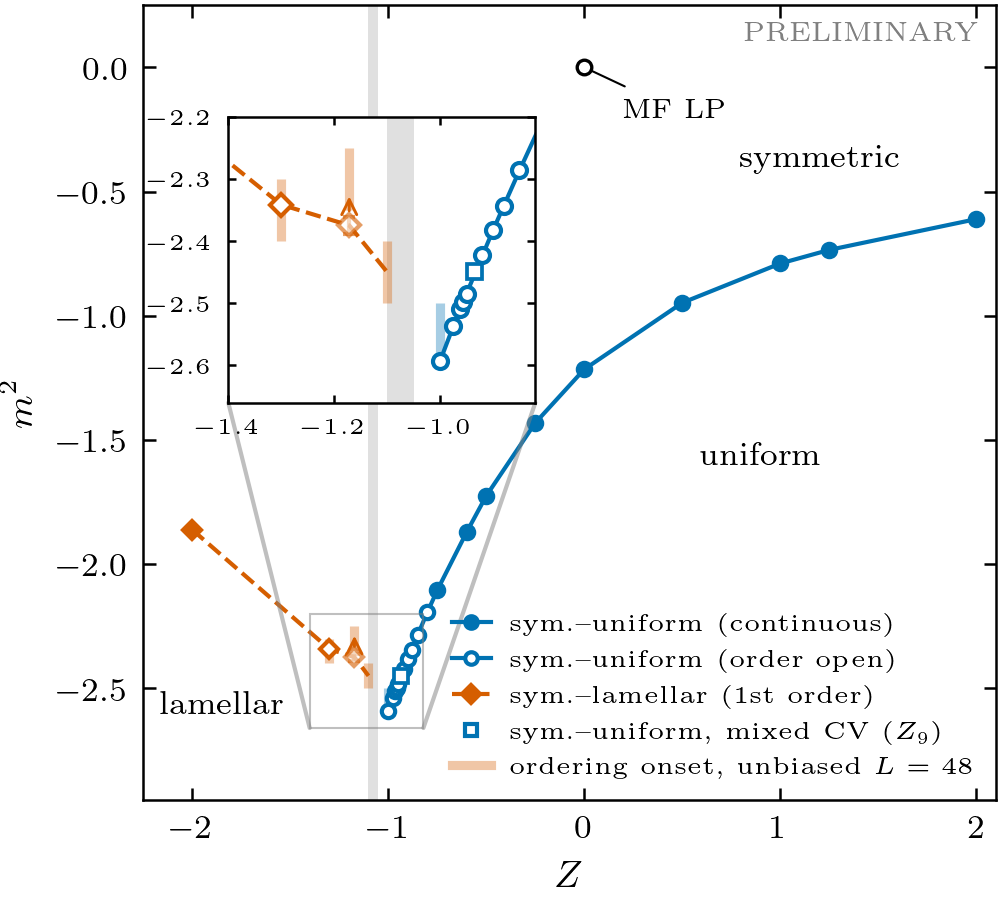
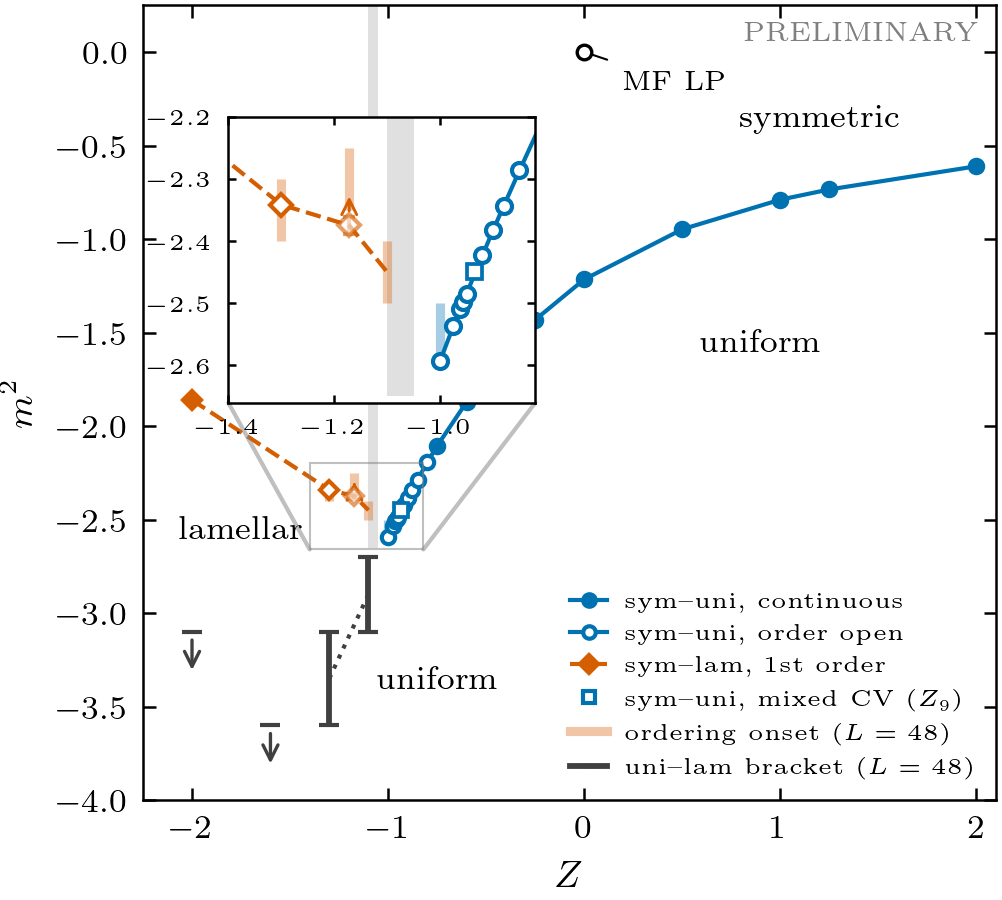
Preliminary phase diagram: uniform<->lamellar brackets from the local slab-coexistence runs (ulam), moat band restricted to the symmetric phase

diff --git a/scripts/fig_phase_diagram.py b/scripts/fig_phase_diagram.py
@@ -16,6 +16,11 @@ Symbols
   time scale; it is not an error bar on m_c.
 * Z8 L = 20: chi_s still rising at the upper edge of the reweighting range, so the point
   is a lower bound on m_c(L=20) (arrow).
+* uniform <-> lamellar: brackets from the local direct-coexistence runs (stages ulam, ulam2;
+  reports/ulam/summary.csv, scripts/analyze_ulam.py).  Half-uniform / half-lamellar L = 48
+  boxes; the bar spans the lowest m2 where lamellae invade (all replicas) to the highest m2
+  where the uniform phase invades.  Where no uniform win was found yet, a downward arrow from
+  the lowest lamellar-win mass.
 * Open circle at the origin: mean-field Lifshitz point (theory lines: fig_theory.py).  Grey band: Z range where the renormalized S(k) peak moves to
   k -> 0 at the transition (moat closes).
 
@@ -59,14 +64,45 @@ def lamellar_points() -> list[dict]:
     return out
 
 
+def ulam_brackets() -> list[tuple[float, float, float | None]]:
+    """(Z, lowest m2 with lamellar win, highest m2 with uniform win or None)."""
+    f = ROOT / "reports" / "ulam" / "summary.csv"
+    if not f.is_file():
+        return []
+    t = pd.read_csv(f)
+    t = t[t.complete.astype(bool)]
+    out = []
+    for Z, g in t.groupby("Z"):
+        lam = g[g.lamellar == g[["uniform", "lamellar", "slab", "symmetric"]].sum(axis=1)].m2
+        uni = g[g.uniform > 0].m2
+        if lam.empty:
+            continue
+        lo = lam.min()
+        hi = uni[uni < lo].max() if not uni.empty else None
+        out.append((round(Z, 4), lo, None if hi is None or np.isnan(hi) else hi))
+    return out
+
+
 # unbiased L=48 chains: (Z, last fully symmetric m2, first m2 with nucleated order, state)
 NUCLEATION = [(-1.3, -2.30, -2.40, "lamellae"), (Z8, -2.25, -2.35, "lamellae"),
               (-1.1, -2.40, -2.50, "lamellae"), (-1.0, -2.50, -2.60, "slabs")]
 
 
-def draw(ax, U, lam, H, inset=False):
+def draw(ax, U, lam, H, inset=False, UL=()):
     ms = 3.2 if not inset else 3.6
-    ax.axvspan(-1.10, -1.05, color="0.88", lw=0, zorder=0)
+    mid = []
+    for Z, lo, hi in UL:
+        if hi is None:
+            ax.annotate("", (Z, lo - 0.25), (Z, lo), arrowprops=dict(arrowstyle="->", lw=0.8, color=C_UM))
+            ax.plot([Z], [lo], "_", ms=5, mew=1.0, color=C_UM)
+        else:
+            ax.plot([Z, Z], [hi, lo], "-", lw=1.4, color=C_UM, solid_capstyle="butt", zorder=3)
+            ax.plot([Z, Z], [hi, lo], "_", ms=5, mew=1.0, color=C_UM, zorder=3)
+            mid.append((Z, 0.5 * (hi + lo)))
+    if mid:
+        z, m = zip(*sorted(mid))
+        ax.plot(z, m, ":", lw=1.0, color=C_UM, zorder=2)
+    ax.fill_betweenx([-2.65, 0.3], -1.10, -1.05, color="0.88", lw=0, zorder=0)   # symmetric phase only
     # symmetric -> uniform
     cont = U.Z >= -0.75
     ax.plot(U.Z, U.m_chi_max, "-", lw=1.0, color=C_UNI, zorder=2)
@@ -97,6 +133,8 @@ def main() -> int:
 
     U = uniform_line()
     lam = lamellar_points()
+    UL = ulam_brackets()
+    print("uniform-lamellar brackets", UL)
     H = pd.read_csv(ROOT / "reports" / "hartree" / "hartree_lines.csv")
     H = H[H.L == 0].sort_values("Z")
     H = H[(H.Z >= -2.3) & (H.Z <= 2.1)]
@@ -106,14 +144,15 @@ def main() -> int:
 
     use_prd()
     fig, ax = plt.subplots(figsize=figsize("single", 0.9))
-    draw(ax, U, lam, H)
+    draw(ax, U, lam, H, UL=UL)
     ax.set_xlim(-2.25, 2.1)
-    ax.set_ylim(-2.95, 0.25)
+    ax.set_ylim(-4.0, 0.25)
     ax.set_xlabel(r"$Z$")
     ax.set_ylabel(r"$m^2$")
     ax.text(1.2, -0.4, "symmetric", ha="center", fontsize=8)
     ax.text(0.9, -1.6, "uniform", ha="center", fontsize=8)
-    ax.text(-1.85, -2.6, "lamellar", ha="center", fontsize=8)
+    ax.text(-0.75, -3.4, "uniform", ha="center", fontsize=8)
+    ax.text(-1.75, -2.6, "lamellar", ha="center", fontsize=8)
     ax.annotate("MF LP", (0, 0), (0.2, -0.2), fontsize=6.5, arrowprops=dict(arrowstyle="-", lw=0.5))
     ax.text(0.98, 0.98, "PRELIMINARY", transform=ax.transAxes, ha="right", va="top", fontsize=6.5, color="0.5")
 
@@ -125,12 +164,13 @@ def main() -> int:
     ax.indicate_inset_zoom(ins, edgecolor="0.5", lw=0.5)
 
     from matplotlib.lines import Line2D
-    h = [Line2D([], [], marker="o", ls="-", color=C_UNI, ms=3, label="sym.–uniform (continuous)"),
-         Line2D([], [], marker="o", ls="-", color=C_UNI, mfc="white", ms=3, label="sym.–uniform (order open)"),
-         Line2D([], [], marker="D", ls="--", color=C_MOD, ms=3, label="sym.–lamellar (1st order)"),
-         Line2D([], [], marker="s", ls="", color=C_UNI, mfc="white", ms=3, label=r"sym.–uniform, mixed CV ($Z_9$)"),
-         Line2D([], [], lw=2.2, color=C_MOD, alpha=0.35, label="ordering onset, unbiased $L=48$")]
-    ax.legend(handles=h, loc="lower right", fontsize=5.8, frameon=False, handlelength=1.6)
+    h = [Line2D([], [], marker="o", ls="-", color=C_UNI, ms=3, label="sym–uni, continuous"),
+         Line2D([], [], marker="o", ls="-", color=C_UNI, mfc="white", ms=3, label="sym–uni, order open"),
+         Line2D([], [], marker="D", ls="--", color=C_MOD, ms=3, label="sym–lam, 1st order"),
+         Line2D([], [], marker="s", ls="", color=C_UNI, mfc="white", ms=3, label=r"sym–uni, mixed CV ($Z_9$)"),
+         Line2D([], [], lw=2.2, color=C_MOD, alpha=0.35, label="ordering onset ($L=48$)"),
+         Line2D([], [], marker="_", ls="-", lw=1.4, color=C_UM, ms=5, label="uni–lam bracket ($L=48$)")]
+    ax.legend(handles=h, loc="lower right", fontsize=5.5, frameon=False, handlelength=1.6)
     fig.tight_layout(pad=0.3)
     save(fig, ROOT / "paper" / "figures" / "phase_diagram_prelim")
     return 0
